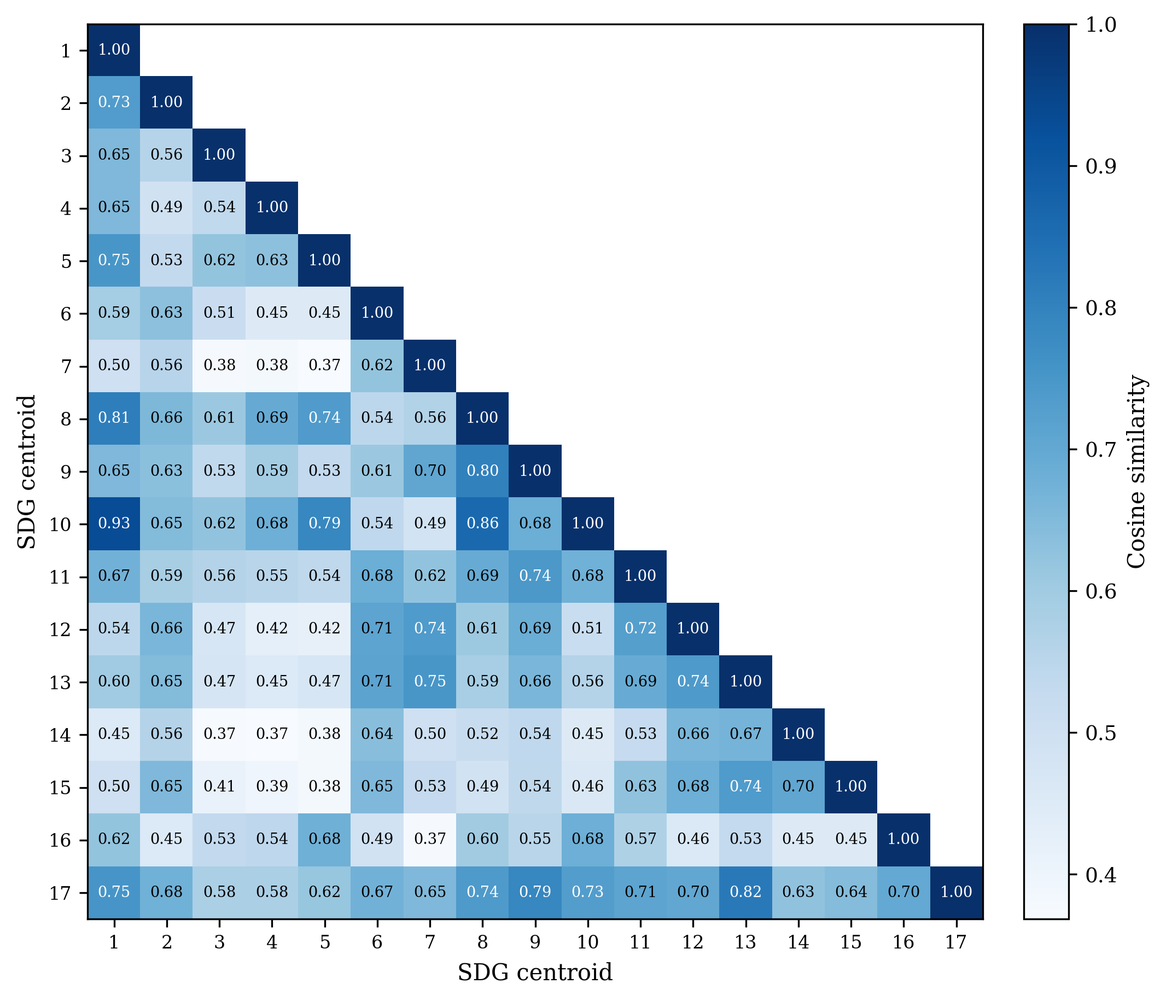
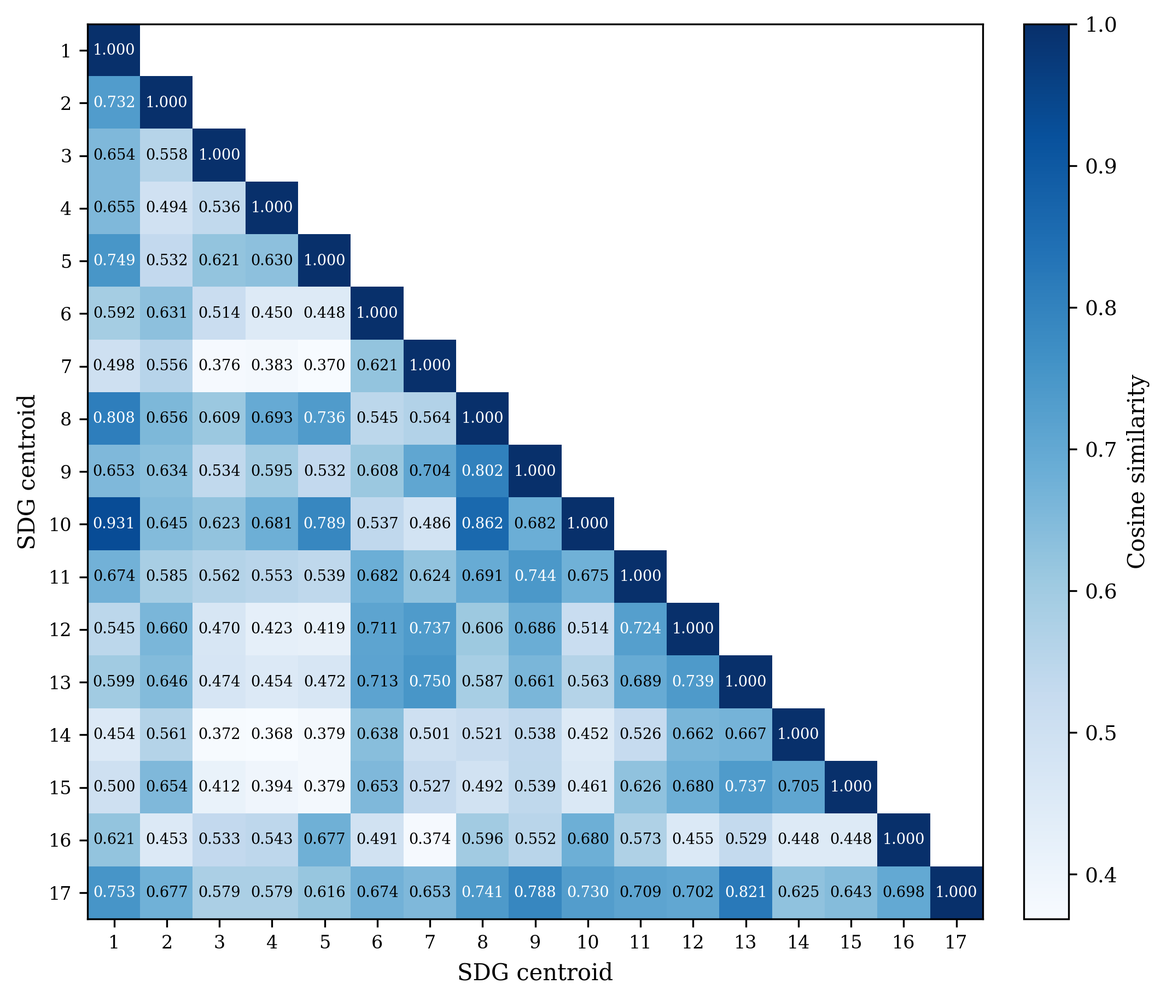
Unify decimal convention: coverage 1 dp; semantic gap, cosine, rho/r 3 dp
- Coverage percentages and agreement rates stay at 1 decimal place.
- Semantic gaps (cosine distance), cosine similarities, and Spearman rho /
  Pearson r now use 3 decimals throughout (were inconsistently 2 dp in several
  tables/figures).
- Centroid cosine-similarity heatmap (fig8) annotations regenerated at 3 dp.
- Updated generators: 0_coverage_gap, 2_coverage_semantic_interaction,
  3_generate_cross_sensitivity_table, a2_policy_source_family_sensitivity,
  plot_figures; and dissertation.tex prose.
- Regenerated affected num*/tab* outputs (encoder sensitivity, cross-sensitivity
  rho rows, policy-source family tables, interaction Fisher CIs, coverage-gap
  multi-segment %).

diff --git a/3_writing/dissertation.tex b/3_writing/dissertation.tex
@@ -321,7 +321,7 @@ The semantic gap for each SDG is then defined as:
 
 A gap of 0 indicates perfectly overlapping semantic directions; a gap approaching 1 indicates orthogonal framing. Cosine similarity between centroids is the standard method for document-level semantic comparison in embedding space \parencite{vorderbruck2019text, Babic2020}. Centroid cosine distance collapses each embedding cloud to its mean direction.
 
-Appendix~\ref{app:distributional-table} shows the adjusted-gap ranking correlates moderately with most full-distribution alternatives ($\rho = 0.44$--$0.69$), while Gaussian-2-Wasserstein, squared MMD, Sinkhorn, C2ST, and Grassmann show weak or negative agreement ($\rho \leq 0.26$), confirming the centroid estimate captures a dominant signal while distribution shape also carries signal. An alternative reading is that weak agreement from five independent distribution-aware measures reflects a real limitation of the mean-direction centroid rather than a merely complementary signal; the present study cannot distinguish between these readings and reports both distribution-aware and centroid results (Appendix~\ref{app:distributional-table}) so readers can judge for themselves. However, further analysis with those distance measures is left for future work.
+Appendix~\ref{app:distributional-table} shows the adjusted-gap ranking correlates moderately with most full-distribution alternatives ($\rho = 0.444$--$0.686$), while Gaussian-2-Wasserstein, squared MMD, Sinkhorn, C2ST, and Grassmann show weak or negative agreement ($\rho \leq 0.260$), confirming the centroid estimate captures a dominant signal while distribution shape also carries signal. An alternative reading is that weak agreement from five independent distribution-aware measures reflects a real limitation of the mean-direction centroid rather than a merely complementary signal; the present study cannot distinguish between these readings and reports both distribution-aware and centroid results (Appendix~\ref{app:distributional-table}) so readers can judge for themselves. However, further analysis with those distance measures is left for future work.
 
 The per-document segment cap of $K = 50$ (seeded, reproducible) bounds a single document's contribution to at most 50 segments, mitigating the influence of very long reports on the policy centroid; sensitivity at $K = 20$ and no cap is reported in Table~\ref{tab:cross-sensitivity-robustness}, Appendix~\ref{app:cross-method-section}.
 
@@ -759,7 +759,7 @@ The LR grid searched C $\in \{0.1, 1, 2, 3, 5, 10, 30, 100\}$ with an L2 penalty
 
 \noindent\textbf{Champion: LR (C=3.0, L2).} LR (C=3.0, L2, class\_weight=None) was chosen over the highest-scoring MLP despite a \LrMlpGap{} macro-$F_1$ gap: LR requires one free parameter (C) and no hidden layers, dropout, learning-rate tuning, or early stopping, and it provides 768 signed coefficients per SDG class, each directly attributable to a specific semantic dimension, whereas MLP's hidden layers diffuse this information across non-linear transformations. For this study's purpose  --  building an interpretable supervised reference to compare corpora, not a classifier built to label single documents  --  LR is chosen for transparency, not superior accuracy. The MLP test macro-$F_1$ (\MlpMacroFOne{}) cited in Section~\ref{sec:validation} is a single held-out evaluation of the champion MLP retrained on the full training pool (n=\NTrainPool{}), distinct from the CV mean of \MlpCvMacroFone{}~$\pm$~\MlpCvMacroFoneStd{} above. The full candidate ranking is reproduced in Table~\ref{tab:model-selection-appendix}.
 
-Held-out test performance (Table~\ref{tab:validation}) quantifies the cost of each simplification. The champion MLP reaches macro-F1 \MlpMacroFOne{} and micro-F1 \MlpMicroFOne{}, only ~1.0 and ~0.9 points above LR (0.816 / 0.831) with a near-identical per-SDG ordering (Spearman $\rho = 0.98$), so its extra capacity yields negligible accuracy and the interpretability-first choice of LR is justified. The zero-shot nearest-centroid baseline is weaker -- macro-F1 \ZsMacroFOne{} and micro-F1 \ZsMicroFOne{}, ~5.6 points below LR -- because it has no trained decision boundary, only the unweighted mean of reference embeddings, and the penalty is concentrated on the goals hardest to separate for all methods (SDG 10: 0.485 vs 0.610; SDG 17: 0.671). ZS still recovers the same broad ranking ($\rho = 0.93$ vs LR) and far exceeds the 1/17 random baseline, so it remains a usable unsupervised sanity check rather than a competitive classifier.
+Held-out test performance (Table~\ref{tab:validation}) quantifies the cost of each simplification. The champion MLP reaches macro-F1 \MlpMacroFOne{} and micro-F1 \MlpMicroFOne{}, only ~1.0 and ~0.9 points above LR (0.816 / 0.831) with a near-identical per-SDG ordering (Spearman $\rho = 0.980$), so its extra capacity yields negligible accuracy and the interpretability-first choice of LR is justified. The zero-shot nearest-centroid baseline is weaker -- macro-F1 \ZsMacroFOne{} and micro-F1 \ZsMicroFOne{}, ~5.6 points below LR -- because it has no trained decision boundary, only the unweighted mean of reference embeddings, and the penalty is concentrated on the goals hardest to separate for all methods (SDG 10: 0.485 vs 0.610; SDG 17: 0.671). ZS still recovers the same broad ranking ($\rho = 0.930$ vs LR) and far exceeds the 1/17 random baseline, so it remains a usable unsupervised sanity check rather than a competitive classifier.
 
 \begin{table}[ht]
 \centering
@@ -1008,7 +1008,7 @@ SciBERT is designated a lower-trust robustness encoder (its scientific pretraini
 compresses gap magnitudes, $\SciBERTMeanGap{}$ against $\MPNetMeanGap{}$,
 Section~\ref{sec:encoder-sensitivity}).
 
-\emph{Possible causes of the SciBERT divergence.} Possible causes range from small-$n$ estimation noise to SciBERT's compressed gap magnitudes and lower assignment fidelity; none is established, and the divergence does not threaten the conclusion, which rests on the supervised tracks where the H1a adjusted Pearson reaches $+0.69$ (Table~\ref{tab:raw-value-correlation}) and is stable across metrics. The raw-value specification therefore confirms, rather than threatens, the rank-based result.
+\emph{Possible causes of the SciBERT divergence.} Possible causes range from small-$n$ estimation noise to SciBERT's compressed gap magnitudes and lower assignment fidelity; none is established, and the divergence does not threaten the conclusion, which rests on the supervised tracks where the H1a adjusted Pearson reaches $+0.694$ (Table~\ref{tab:raw-value-correlation}) and is stable across metrics. The raw-value specification therefore confirms, rather than threatens, the rank-based result.
 
 \begin{table}[htbp]
 \centering
@@ -1039,7 +1039,7 @@ The implication is interpretive rather than corrective. The full policy corpus s
 \par\smallskip\footnotesize\emph{Notes:} For each policy source family, \texttt{pol.\% (n)} is the document-weighted policy share (\%) with the document count in parentheses; \texttt{sem. (n)} is the within-SDG research--policy semantic gap (naive, unadjusted) with the capped segment count in parentheses. Read across a row to see whether the gap is stable or driven by one family.\par
 \end{table}
 
-Re-running the interaction tests within each policy source family (Table~\ref{tab:policy-source-family-h25}; each family's reliable SDGs only, UNGDC: $n=15$) confirms the null is not an artefact of comparing an AI-specific research intersection with a broader policy union: the curated AI/SDG construction reproduces the full-corpus pattern (Section~\ref{sec:interaction}), while the SDGi and UNGDC families show positive research-share associations ($\rho = 0.60$, $p = 0.014$; $\rho = 0.42$, $p = 0.115$). The full-corpus row of Table~\ref{tab:policy-source-family-h25} reproduces the canonical interaction estimates (Section~\ref{sec:interaction}), confirming the replication is faithful.
+Re-running the interaction tests within each policy source family (Table~\ref{tab:policy-source-family-h25}; each family's reliable SDGs only, UNGDC: $n=15$) confirms the null is not an artefact of comparing an AI-specific research intersection with a broader policy union: the curated AI/SDG construction reproduces the full-corpus pattern (Section~\ref{sec:interaction}), while the SDGi and UNGDC families show positive research-share associations ($\rho = 0.600$, $p = 0.014$; $\rho = 0.420$, $p = 0.115$). The full-corpus row of Table~\ref{tab:policy-source-family-h25} reproduces the canonical interaction estimates (Section~\ref{sec:interaction}), confirming the replication is faithful.
 
 The Coverage gap adj.\ column of Table~\ref{tab:policy-source-family-h25} repeats the coverage-gap predictor against the register-adjusted semantic gap (Section~\ref{sec:register-adjustment-inlp}). The full-corpus row reproduces the main-text decomposition estimate ($\rho = \FullPolicyHPrimaryCovgapAdjSpearmanRho$, $p = \FullPolicyHPrimaryCovgapAdjSpearmanP$), confirming that the projection is applied consistently here. The positive adjusted association appears in the SDGi family ($\rho = \SdgiHPrimaryCovgapAdjSpearmanRho$, $p = \SdgiHPrimaryCovgapAdjSpearmanP$) and the full corpus ($\rho = \FullPolicyHPrimaryCovgapAdjSpearmanRho$, $p = \FullPolicyHPrimaryCovgapAdjSpearmanP$), but not under symmetric scope: the curated AI/SDG family is null ($\rho = \CuratedHPrimaryCovgapAdjSpearmanRho$, $p = \CuratedHPrimaryCovgapAdjSpearmanP$), as is UNGDC ($\rho = \UngdcHPrimaryCovgapAdjSpearmanRho$, $p = \UngdcHPrimaryCovgapAdjSpearmanP$). Two qualifications bound this result. First, the curated family's document-weighted profile spans only \PolicyCuratedDocs{} documents, so its policy share varies over a narrower range than the full corpus at the same $n = 17$, which attenuates rank correlations. Second, the adjusted gaps carry the register-removal caveat of Appendix~\ref{app:register-validation}: what INLP removes is broader than measurable register. The symmetric-scope column therefore bounds the reach of the positive adjusted association rather than overturning its full-corpus estimate.
 

diff --git a/1_code/7_main_analysis/1_main_text/3_generate_cross_sensitivity_table.py b/1_code/7_main_analysis/1_main_text/3_generate_cross_sensitivity_table.py
@@ -389,16 +389,16 @@ def write_encoder_axis_semantic():
     )
     scibert_key = "Encoder (embedding architecture)::SciBERT (768-d)::LR"
     scibert_rho = rho_a.get(scibert_key, float("nan"))
-    val = f"{scibert_rho:.2f}" if not np.isnan(scibert_rho) else "--"
+    val = f"{scibert_rho:.3f}" if not np.isnan(scibert_rho) else "--"
     mlp_key = "Encoder (embedding architecture)::MPNet (768-d)::MLP"
     mlp_rho = rho_a.get(mlp_key, float("nan"))
-    mlp_val = f"{mlp_rho:.2f}" if not np.isnan(mlp_rho) else "--"
+    mlp_val = f"{mlp_rho:.3f}" if not np.isnan(mlp_rho) else "--"
     zs_key = "Encoder (embedding architecture)::MPNet (768-d)::ZS"
     zs_rho = rho_a.get(zs_key, float("nan"))
-    zs_val = f"{zs_rho:.2f}" if not np.isnan(zs_rho) else "--"
+    zs_val = f"{zs_rho:.3f}" if not np.isnan(zs_rho) else "--"
     minilm_key = "Encoder (embedding architecture)::MiniLM (384-d)::LR"
     minilm_rho = rho_a.get(minilm_key, float("nan"))
-    minilm_val = f"{minilm_rho:.2f}" if not np.isnan(minilm_rho) else "--"
+    minilm_val = f"{minilm_rho:.3f}" if not np.isnan(minilm_rho) else "--"
     lines = [
         "% Auto-generated by 1_code/7_main_analysis/1_main_text/3_generate_cross_sensitivity_table.py — do not edit manually",
         rf"\newcommand{{\SciBERTSemanticRho}}{{{val}}}",
@@ -409,21 +409,21 @@ def write_encoder_axis_semantic():
     scibert_stats = load_mean_gap_and_cohesion("allenai/scibert_scivocab_uncased")
     if scibert_stats:
         sg, sc, src, spc = scibert_stats
-        lines.append(rf"\newcommand{{\SciBERTMeanGap}}{{{sg:.2f}}}")
-        lines.append(rf"\newcommand{{\SciBERTMeanCos}}{{{sc:.2f}}}")
+        lines.append(rf"\newcommand{{\SciBERTMeanGap}}{{{sg:.3f}}}")
+        lines.append(rf"\newcommand{{\SciBERTMeanCos}}{{{sc:.3f}}}")
         if src is not None:
-            lines.append(rf"\newcommand{{\SciBERTResCohesion}}{{{src:.2f}}}")
+            lines.append(rf"\newcommand{{\SciBERTResCohesion}}{{{src:.3f}}}")
         if spc is not None:
-            lines.append(rf"\newcommand{{\SciBERTPolCohesion}}{{{spc:.2f}}}")
+            lines.append(rf"\newcommand{{\SciBERTPolCohesion}}{{{spc:.3f}}}")
     mpnet_stats = load_mean_gap_and_cohesion("all-mpnet-base-v2")
     if mpnet_stats:
         mg, mc, mrc, mpc = mpnet_stats
-        lines.append(rf"\newcommand{{\MPNetMeanGap}}{{{mg:.2f}}}")
-        lines.append(rf"\newcommand{{\MPNetMeanCos}}{{{mc:.2f}}}")
+        lines.append(rf"\newcommand{{\MPNetMeanGap}}{{{mg:.3f}}}")
+        lines.append(rf"\newcommand{{\MPNetMeanCos}}{{{mc:.3f}}}")
         if mrc is not None:
-            lines.append(rf"\newcommand{{\MPNetResCohesion}}{{{mrc:.2f}}}")
+            lines.append(rf"\newcommand{{\MPNetResCohesion}}{{{mrc:.3f}}}")
         if mpc is not None:
-            lines.append(rf"\newcommand{{\MPNetPolCohesion}}{{{mpc:.2f}}}")
+            lines.append(rf"\newcommand{{\MPNetPolCohesion}}{{{mpc:.3f}}}")
     (OUT_MAIN / "num7_encoder_sensitivity.tex").write_text(
         "\n".join(lines) + "\n", encoding="utf-8")
     print(f"Written num7_encoder_sensitivity.tex  scibert_lr_rho={val} mlp_rho={mlp_val} zs_rho={zs_val} minilm_rho={minilm_val}")
@@ -457,10 +457,10 @@ def write_encoder_axis_coverage():
     )
     scibert_key = "Encoder (embedding architecture)::SciBERT (768-d)::LR"
     scibert_rho = rho_by_col.get(scibert_key, float("nan"))
-    val = f"{scibert_rho:.2f}" if not np.isnan(scibert_rho) else "--"
+    val = f"{scibert_rho:.3f}" if not np.isnan(scibert_rho) else "--"
     minilm_key = "Encoder (embedding architecture)::MiniLM (384-d)::LR"
     minilm_rho = rho_by_col.get(minilm_key, float("nan"))
-    minilm_val = f"{minilm_rho:.2f}" if not np.isnan(minilm_rho) else "--"
+    minilm_val = f"{minilm_rho:.3f}" if not np.isnan(minilm_rho) else "--"
     (OUT_MAIN / "num9_encoder_sensitivity_coverage.tex").write_text(
         "\n".join([
             "% Auto-generated by 1_code/7_main_analysis/1_main_text/3_generate_cross_sensitivity_table.py — do not edit manually",
@@ -927,7 +927,7 @@ def write_cross_sensitivity():
     )
 
     concept_rho_val = rho_b.get("Retrieval::LR", float("nan"))
-    concept_sem_rho = f"{concept_rho_val:.2f}" if not np.isnan(concept_rho_val) else "--"
+    concept_sem_rho = f"{concept_rho_val:.3f}" if not np.isnan(concept_rho_val) else "--"
     (OUT_MAIN / "num11_concept_semantic.tex").write_text(
         "\n".join([
             "% Auto-generated by 1_code/7_main_analysis/1_main_text/3_generate_cross_sensitivity_table.py — do not edit manually",
@@ -1094,7 +1094,7 @@ def build_tabular(col_groups):
             else:
                 rho = float("nan")
             rho_by_col[key] = rho
-            rho_cells.append(f"{rho:.2f}" if not np.isnan(rho) else "--")
+            rho_cells.append(f"{rho:.3f}" if not np.isnan(rho) else "--")
     else:
         for _ in all_cols:
             rho_cells.append("--")
@@ -1225,7 +1225,7 @@ def write_coverage_table():
                                 COVERAGE_CAPTION, COVERAGE_NOTES, "tab:cross-sensitivity-coverage")
 
     concept_rho_val = rho_by_col.get("Retrieval::LR", float("nan"))
-    concept_rho = f"{concept_rho_val:.2f}" if not np.isnan(concept_rho_val) else "--"
+    concept_rho = f"{concept_rho_val:.3f}" if not np.isnan(concept_rho_val) else "--"
     lines = [
         f"% Auto-generated by 1_code/7_main_analysis/1_main_text/3_generate_cross_sensitivity_table.py — do not edit manually",
         rf"\newcommand{{\ConceptCoverageGapRho}}{{{concept_rho}}}",

diff --git a/4_outputs/appendix/mpnet/a2_source_family_sensitivity/tables/tab_a2_policy_source_family_combined.tex b/4_outputs/appendix/mpnet/a2_source_family_sensitivity/tables/tab_a2_policy_source_family_combined.tex
@@ -5,24 +5,24 @@ SDG & \multicolumn{2}{c}{Full Corpus} & \multicolumn{2}{c}{Curated AI/SDG} & \mu
 \cmidrule(lr){2-3} \cmidrule(lr){4-5} \cmidrule(lr){6-7} \cmidrule(lr){8-9}
 & pol.\% (n) & sem.\,(n) & pol.\% (n) & sem.\,(n) & pol.\% (n) & sem.\,(n) & pol.\% (n) & sem.\,(n) \\
 \midrule
-1 & 4.5 (288) & 0.42 (1,689) & 1.1 (1) & 0.44 (357) & 5.9 (250) & 0.42 (1,191) & 1.8 (37) & 0.56 (141) \\
-2 & 4.3 (274) & 0.30 (1,508) & 0.0 (0) & 0.35 (240) & 5.8 (246) & 0.29 (1,196) & 1.4 (28) & 0.45 (72) \\
-3 & 4.7 (298) & 0.49 (2,408) & 6.4 (6) & 0.36 (643) & 6.7 (284) & 0.55 (1,707) & 0.4 (8) & 0.70 (58) \\
-4 & 4.8 (305) & 0.27 (2,055) & 0.0 (0) & 0.21 (274) & 7.0 (296) & 0.29 (1,718) & 0.4 (9) & 0.40 (63) \\
-5 & 5.1 (324) & 0.28 (2,005) & 0.0 (0) & 0.28 (272) & 6.6 (278) & 0.28 (1,531) & 2.2 (46) & 0.41 (202) \\
-6 & 3.7 (238) & 0.29 (1,206) & 0.0 (0) & 0.35 (137) & 5.3 (226) & 0.29 (1,038) & 0.6 (12) & 0.42 (31) \\
-7 & 4.3 (273) & 0.43 (1,578) & 1.1 (1) & 0.51 (358) & 6.0 (253) & 0.41 (1,147) & 0.9 (19) & 0.59 (73) \\
-8 & 4.3 (276) & 0.39 (1,886) & 0.0 (0) & 0.40 (309) & 6.5 (275) & 0.40 (1,558) & 0.0 (1) & 0.54 (19) \\
-9 & 4.3 (274) & 0.31 (2,986) & 50.0 (47) & 0.27 (1,838) & 5.1 (215) & 0.54 (1,116) & 0.6 (12) & 0.46 (32) \\
-10 & 2.9 (182) & 0.27 (1,085) & 0.0 (0) & 0.33 (258) & 4.2 (176) & 0.28 (774) & 0.3 (6) & 0.40 (53) \\
-11 & 5.3 (338) & 0.45 (1,658) & 0.0 (0) & 0.43 (175) & 8.0 (336) & 0.46 (1,474) & 0.1 (2) & 0.57 (9) \\
-12 & 3.5 (226) & 0.30 (1,132) & 0.0 (0) & 0.38 (178) & 5.3 (225) & 0.30 (947) & 0.0 (1) & 0.49 (7) \\
-13 & 11.3 (718) & 0.48 (3,084) & 7.4 (7) & 0.44 (613) & 6.0 (252) & 0.44 (1,268) & 22.4 (459) & 0.58 (1,203) \\
-14 & 3.8 (241) & 0.36 (1,293) & 0.0 (0) & 0.37 (216) & 4.5 (189) & 0.35 (856) & 2.5 (52) & 0.49 (221) \\
-15 & 4.2 (266) & 0.24 (1,484) & 0.0 (0) & 0.29 (299) & 5.7 (239) & 0.24 (1,108) & 1.3 (27) & 0.41 (77) \\
-16 & 17.3 (1,100) & 0.33 (4,890) & 12.8 (12) & 0.20 (1,092) & 5.9 (250) & 0.38 (1,395) & 40.9 (838) & 0.51 (2,403) \\
-17 & 11.7 (746) & 0.18 (3,645) & 21.3 (20) & 0.18 (859) & 5.6 (235) & 0.16 (1,322) & 24.0 (491) & 0.26 (1,464) \\
+1 & 4.5 (288) & 0.415 (1,689) & 1.1 (1) & 0.443 (357) & 5.9 (250) & 0.415 (1,191) & 1.8 (37) & 0.556 (141) \\
+2 & 4.3 (274) & 0.299 (1,508) & 0.0 (0) & 0.345 (240) & 5.8 (246) & 0.294 (1,196) & 1.4 (28) & 0.454 (72) \\
+3 & 4.7 (298) & 0.495 (2,408) & 6.4 (6) & 0.362 (643) & 6.7 (284) & 0.554 (1,707) & 0.4 (8) & 0.695 (58) \\
+4 & 4.8 (305) & 0.267 (2,055) & 0.0 (0) & 0.205 (274) & 7.0 (296) & 0.287 (1,718) & 0.4 (9) & 0.395 (63) \\
+5 & 5.1 (324) & 0.278 (2,005) & 0.0 (0) & 0.276 (272) & 6.6 (278) & 0.282 (1,531) & 2.2 (46) & 0.411 (202) \\
+6 & 3.7 (238) & 0.292 (1,206) & 0.0 (0) & 0.346 (137) & 5.3 (226) & 0.292 (1,038) & 0.6 (12) & 0.422 (31) \\
+7 & 4.3 (273) & 0.427 (1,578) & 1.1 (1) & 0.511 (358) & 6.0 (253) & 0.409 (1,147) & 0.9 (19) & 0.591 (73) \\
+8 & 4.3 (276) & 0.387 (1,886) & 0.0 (0) & 0.395 (309) & 6.5 (275) & 0.397 (1,558) & 0.0 (1) & 0.536 (19) \\
+9 & 4.3 (274) & 0.315 (2,986) & 50.0 (47) & 0.272 (1,838) & 5.1 (215) & 0.545 (1,116) & 0.6 (12) & 0.459 (32) \\
+10 & 2.9 (182) & 0.272 (1,085) & 0.0 (0) & 0.331 (258) & 4.2 (176) & 0.278 (774) & 0.3 (6) & 0.402 (53) \\
+11 & 5.3 (338) & 0.449 (1,658) & 0.0 (0) & 0.428 (175) & 8.0 (336) & 0.456 (1,474) & 0.1 (2) & 0.573 (9) \\
+12 & 3.5 (226) & 0.296 (1,132) & 0.0 (0) & 0.384 (178) & 5.3 (225) & 0.297 (947) & 0.0 (1) & 0.488 (7) \\
+13 & 11.3 (718) & 0.480 (3,084) & 7.4 (7) & 0.437 (613) & 6.0 (252) & 0.444 (1,268) & 22.4 (459) & 0.576 (1,203) \\
+14 & 3.8 (241) & 0.360 (1,293) & 0.0 (0) & 0.372 (216) & 4.5 (189) & 0.354 (856) & 2.5 (52) & 0.487 (221) \\
+15 & 4.2 (266) & 0.238 (1,484) & 0.0 (0) & 0.289 (299) & 5.7 (239) & 0.237 (1,108) & 1.3 (27) & 0.409 (77) \\
+16 & 17.3 (1,100) & 0.329 (4,890) & 12.8 (12) & 0.195 (1,092) & 5.9 (250) & 0.377 (1,395) & 40.9 (838) & 0.506 (2,403) \\
+17 & 11.7 (746) & 0.177 (3,645) & 21.3 (20) & 0.181 (859) & 5.6 (235) & 0.165 (1,322) & 24.0 (491) & 0.260 (1,464) \\
 \midrule
-$\rho$ & 1.00 & 1.00 & 0.36 & 0.73 & 0.61 & 0.91 & 0.45 & 0.97 \\
+$\rho$ & 1.000 & 1.000 & 0.355 & 0.733 & 0.613 & 0.914 & 0.453 & 0.966 \\
 \bottomrule
 \end{tabular}

diff --git a/4_outputs/appendix/mpnet/a2_source_family_sensitivity/tables/num_a2_policy_source_family_h25.tex b/4_outputs/appendix/mpnet/a2_source_family_sensitivity/tables/num_a2_policy_source_family_h25.tex
@@ -1,38 +1,38 @@
 % Auto-generated by 1_code/7_main_analysis/2_appendix/a2_policy_source_family_sensitivity.py — do not edit manually
 % p-values: two-sided Monte Carlo permutation (100,000 resamples, seed 42)
 \newcommand{\FullPolicyHPrimaryN}{17}
-\newcommand{\FullPolicyHPrimaryResearchSpearmanRho}{0.45}
+\newcommand{\FullPolicyHPrimaryResearchSpearmanRho}{0.449}
 \newcommand{\FullPolicyHPrimaryResearchSpearmanP}{0.071}
-\newcommand{\FullPolicyHPrimaryCovgapSpearmanRho}{-0.01}
+\newcommand{\FullPolicyHPrimaryCovgapSpearmanRho}{-0.012}
 \newcommand{\FullPolicyHPrimaryCovgapSpearmanP}{0.959}
-\newcommand{\FullPolicyHPrimaryCovgapAdjSpearmanRho}{0.54}
+\newcommand{\FullPolicyHPrimaryCovgapAdjSpearmanRho}{0.544}
 \newcommand{\FullPolicyHPrimaryCovgapAdjSpearmanP}{0.025}
-\newcommand{\FullPolicyHPrimaryResearchSpearmanRhoNoSdgFour}{0.61}
+\newcommand{\FullPolicyHPrimaryResearchSpearmanRhoNoSdgFour}{0.606}
 \newcommand{\FullPolicyHPrimaryResearchSpearmanPNoSdgFour}{0.015}
 \newcommand{\CuratedHPrimaryN}{17}
-\newcommand{\CuratedHPrimaryResearchSpearmanRho}{-0.06}
+\newcommand{\CuratedHPrimaryResearchSpearmanRho}{-0.056}
 \newcommand{\CuratedHPrimaryResearchSpearmanP}{0.833}
-\newcommand{\CuratedHPrimaryCovgapSpearmanRho}{-0.22}
+\newcommand{\CuratedHPrimaryCovgapSpearmanRho}{-0.223}
 \newcommand{\CuratedHPrimaryCovgapSpearmanP}{0.386}
-\newcommand{\CuratedHPrimaryCovgapAdjSpearmanRho}{-0.06}
+\newcommand{\CuratedHPrimaryCovgapAdjSpearmanRho}{-0.061}
 \newcommand{\CuratedHPrimaryCovgapAdjSpearmanP}{0.807}
-\newcommand{\CuratedHPrimaryResearchSpearmanRhoNoSdgFour}{0.05}
+\newcommand{\CuratedHPrimaryResearchSpearmanRhoNoSdgFour}{0.053}
 \newcommand{\CuratedHPrimaryResearchSpearmanPNoSdgFour}{0.848}
 \newcommand{\SdgiHPrimaryN}{17}
-\newcommand{\SdgiHPrimaryResearchSpearmanRho}{0.60}
+\newcommand{\SdgiHPrimaryResearchSpearmanRho}{0.596}
 \newcommand{\SdgiHPrimaryResearchSpearmanP}{0.014}
-\newcommand{\SdgiHPrimaryCovgapSpearmanRho}{0.04}
+\newcommand{\SdgiHPrimaryCovgapSpearmanRho}{0.042}
 \newcommand{\SdgiHPrimaryCovgapSpearmanP}{0.873}
-\newcommand{\SdgiHPrimaryCovgapAdjSpearmanRho}{0.50}
+\newcommand{\SdgiHPrimaryCovgapAdjSpearmanRho}{0.498}
 \newcommand{\SdgiHPrimaryCovgapAdjSpearmanP}{0.044}
-\newcommand{\SdgiHPrimaryResearchSpearmanRhoNoSdgFour}{0.70}
+\newcommand{\SdgiHPrimaryResearchSpearmanRhoNoSdgFour}{0.703}
 \newcommand{\SdgiHPrimaryResearchSpearmanPNoSdgFour}{0.003}
 \newcommand{\UngdcHPrimaryN}{15}
-\newcommand{\UngdcHPrimaryResearchSpearmanRho}{0.42}
+\newcommand{\UngdcHPrimaryResearchSpearmanRho}{0.425}
 \newcommand{\UngdcHPrimaryResearchSpearmanP}{0.115}
-\newcommand{\UngdcHPrimaryCovgapSpearmanRho}{0.35}
+\newcommand{\UngdcHPrimaryCovgapSpearmanRho}{0.354}
 \newcommand{\UngdcHPrimaryCovgapSpearmanP}{0.195}
-\newcommand{\UngdcHPrimaryCovgapAdjSpearmanRho}{0.36}
+\newcommand{\UngdcHPrimaryCovgapAdjSpearmanRho}{0.357}
 \newcommand{\UngdcHPrimaryCovgapAdjSpearmanP}{0.191}
-\newcommand{\UngdcHPrimaryResearchSpearmanRhoNoSdgFour}{0.61}
+\newcommand{\UngdcHPrimaryResearchSpearmanRhoNoSdgFour}{0.609}
 \newcommand{\UngdcHPrimaryResearchSpearmanPNoSdgFour}{0.024}

diff --git a/1_code/7_main_analysis/2_appendix/a2_policy_source_family_sensitivity.py b/1_code/7_main_analysis/2_appendix/a2_policy_source_family_sensitivity.py
@@ -258,7 +258,7 @@ def _fisher_ci(r: float, n: int) -> tuple[float, float]:
 
 
 def _fmt2(v: float) -> str:
-    s = f"{abs(v):.2f}"
+    s = f"{abs(v):.3f}"
     return f"-{s}" if v < 0 else s
 
 
@@ -385,7 +385,7 @@ def write_table_combined(path: Path, semantic_rows: list[dict], coverage_rows: l
             cr = cov_lookup.get((family, sdg))
             share = f"{float(cr['document_weighted_share']) * 100:.1f}" if cr is not None else "--"
             raw_n = f"{int(cr['document_count_assigned']):,}" if cr is not None else "--"
-            gap = f"{float(sr['semantic_gap']):.2f}" if sr is not None and sr["semantic_gap"] is not None else "--"
+            gap = f"{float(sr['semantic_gap']):.3f}" if sr is not None and sr["semantic_gap"] is not None else "--"
             capped_n = f"{int(sr['n_policy_segments_capped']):,}" if sr is not None else "--"
             cells.append(f"{share} ({raw_n})")
             cells.append(f"{gap} ({capped_n})")
@@ -398,12 +398,12 @@ def write_table_combined(path: Path, semantic_rows: list[dict], coverage_rows: l
     rho_cells = [r"$\rho$"]
     for fam in families_order:
         if fam == "full_policy_corpus":
-            rho_cells.extend(["1.00", "1.00"])
+            rho_cells.extend(["1.000", "1.000"])
         else:
             fv_share = [float(cov_lookup[(fam, s)]['document_weighted_share']) for s in range(1, N_SDG + 1)]
             fv_gap = [float(sem_lookup[(fam, s)]['semantic_gap']) for s in range(1, N_SDG + 1)]
-            rho_cells.append(f"{_spearman(full_share, fv_share):.2f}")
-            rho_cells.append(f"{_spearman(full_gap, fv_gap):.2f}")
+            rho_cells.append(f"{_spearman(full_share, fv_share):.3f}")
+            rho_cells.append(f"{_spearman(full_gap, fv_gap):.3f}")
 
     lines.append(r"\midrule")
     lines.append(" & ".join(rho_cells) + r" \\")

diff --git a/4_outputs/mpnet/tables/num4_interaction_h25.tex b/4_outputs/mpnet/tables/num4_interaction_h25.tex
@@ -1,14 +1,14 @@
 % Auto-generated by 1_code/7_main_analysis/1_main_text/2_coverage_semantic_interaction.py — do not edit manually
 % p-values: two-sided Monte Carlo permutation (100,000 resamples, seed 42)
 \newcommand{\HPrimaryN}{17}
-\newcommand{\HPrimaryCiLower}{-0.22}
-\newcommand{\HPrimaryCiUpper}{0.68}
-\newcommand{\HPrimaryPolicyCiLower}{-0.49}
-\newcommand{\HPrimaryPolicyCiUpper}{0.47}
-\newcommand{\HPrimaryCovgapCiLower}{-0.40}
-\newcommand{\HPrimaryCovgapCiUpper}{0.56}
-\newcommand{\HPrimaryDominanceCiLower}{-0.24}
-\newcommand{\HPrimaryDominanceCiUpper}{0.67}
+\newcommand{\HPrimaryCiLower}{-0.224}
+\newcommand{\HPrimaryCiUpper}{0.675}
+\newcommand{\HPrimaryPolicyCiLower}{-0.495}
+\newcommand{\HPrimaryPolicyCiUpper}{0.466}
+\newcommand{\HPrimaryCovgapCiLower}{-0.398}
+\newcommand{\HPrimaryCovgapCiUpper}{0.555}
+\newcommand{\HPrimaryDominanceCiLower}{-0.238}
+\newcommand{\HPrimaryDominanceCiUpper}{0.667}
 \newcommand{\HPrimaryPearsonR}{0.288}
 \newcommand{\HPrimaryPearsonP}{0.269}
 \newcommand{\HPrimarySpearmanRho}{0.449}
@@ -57,7 +57,7 @@
 \newcommand{\HExclFourDominanceAdjPearsonP}{0.353}
 \newcommand{\HExclFourDominanceAdjSpearmanRho}{-0.074}
 \newcommand{\HExclFourDominanceAdjSpearmanP}{0.780}
-\newcommand{\MedianResearchPct}{2.24}
+\newcommand{\MedianResearchPct}{2.2}
 \newcommand{\ConceptLRCovgapAdjRho}{+0.434$^{\dagger}$}
 \newcommand{\HOneACovgapAdjPositiveCount}{8}
 \newcommand{\HOneACovgapAdjPositiveCountTotal}{9}

diff --git a/4_outputs/mpnet/tables/num7_encoder_sensitivity.tex b/4_outputs/mpnet/tables/num7_encoder_sensitivity.tex
@@ -1,13 +1,13 @@
 % Auto-generated by 1_code/7_main_analysis/1_main_text/3_generate_cross_sensitivity_table.py — do not edit manually
-\newcommand{\SciBERTSemanticRho}{0.54}
-\newcommand{\MlpSemanticRho}{0.85}
-\newcommand{\ZeroShotSemanticRho}{0.60}
-\newcommand{\MiniLMSemanticRho}{0.63}
-\newcommand{\SciBERTMeanGap}{0.04}
-\newcommand{\SciBERTMeanCos}{0.96}
-\newcommand{\SciBERTResCohesion}{0.91}
-\newcommand{\SciBERTPolCohesion}{0.92}
-\newcommand{\MPNetMeanGap}{0.34}
-\newcommand{\MPNetMeanCos}{0.66}
-\newcommand{\MPNetResCohesion}{0.43}
-\newcommand{\MPNetPolCohesion}{0.68}
+\newcommand{\SciBERTSemanticRho}{0.537}
+\newcommand{\MlpSemanticRho}{0.850}
+\newcommand{\ZeroShotSemanticRho}{0.596}
+\newcommand{\MiniLMSemanticRho}{0.632}
+\newcommand{\SciBERTMeanGap}{0.043}
+\newcommand{\SciBERTMeanCos}{0.957}
+\newcommand{\SciBERTResCohesion}{0.909}
+\newcommand{\SciBERTPolCohesion}{0.925}
+\newcommand{\MPNetMeanGap}{0.340}
+\newcommand{\MPNetMeanCos}{0.660}
+\newcommand{\MPNetResCohesion}{0.433}
+\newcommand{\MPNetPolCohesion}{0.676}

diff --git a/4_outputs/appendix/mpnet/a2_source_family_sensitivity/tables/tab_a2_policy_source_family_h25.tex b/4_outputs/appendix/mpnet/a2_source_family_sensitivity/tables/tab_a2_policy_source_family_h25.tex
@@ -3,9 +3,9 @@
 \toprule
 Family & $n$ & Research share $(\rho,\,p)$ & Coverage gap $(\rho,\,p)$ & Coverage gap adj.\ $(\rho,\,p)$ & Research share excl.\ SDG 4 $(\rho,\,p)$ \\
 \midrule
-Full corpus & 17 & 0.45 (0.071) & -0.01 (0.959) & 0.54 (0.025) & 0.61 (0.015) \\
-Curated AI/SDG & 17 & -0.06 (0.833) & -0.22 (0.386) & -0.06 (0.807) & 0.05 (0.848) \\
-SDGi VNR/VLR & 17 & 0.60 (0.014) & 0.04 (0.873) & 0.50 (0.044) & 0.70 (0.003) \\
-UNGDC speeches & 15 & 0.42 (0.115) & 0.35 (0.195) & 0.36 (0.191) & 0.61 (0.024) \\
+Full corpus & 17 & 0.449 (0.071) & -0.012 (0.959) & 0.544 (0.025) & 0.606 (0.015) \\
+Curated AI/SDG & 17 & -0.056 (0.833) & -0.223 (0.386) & -0.061 (0.807) & 0.053 (0.848) \\
+SDGi VNR/VLR & 17 & 0.596 (0.014) & 0.042 (0.873) & 0.498 (0.044) & 0.703 (0.003) \\
+UNGDC speeches & 15 & 0.425 (0.115) & 0.354 (0.195) & 0.357 (0.191) & 0.609 (0.024) \\
 \bottomrule
 \end{tabular}

diff --git a/1_code/7_main_analysis/1_main_text/2_coverage_semantic_interaction.py b/1_code/7_main_analysis/1_main_text/2_coverage_semantic_interaction.py
@@ -712,7 +712,7 @@ def run(args: argparse.Namespace) -> None:
 
     def _fmt2(v):
         """Format float for LaTeX with 2 d.p."""
-        s = f"{abs(v):.2f}"
+        s = f"{abs(v):.3f}"
         return f"-{s}" if v < 0 else s
 
     # ---- 95% CIs (Fisher z) for all four primary predictors, plus minimal detectable effect ----
@@ -779,7 +779,7 @@ def run(args: argparse.Namespace) -> None:
     num_lines += _macro("HExclFourCovgapAdj", tests_excl4_adj, "covgap")
     num_lines += _macro("HExclFourDominanceAdj", tests_excl4_adj, "dominance")
     num_lines += [
-        rf"\newcommand{{\MedianResearchPct}}{{{median_res_pct:.2f}}}",
+        rf"\newcommand{{\MedianResearchPct}}{{{median_res_pct:.1f}}}",
     ]
 
     # ---- H1 x config register-correlation grid (replaces the stale exclude-SDG rows) ----

diff --git a/1_code/7_main_analysis/1_main_text/0_coverage_gap.py b/1_code/7_main_analysis/1_main_text/0_coverage_gap.py
@@ -446,7 +446,7 @@ def run(args: argparse.Namespace) -> None:
         rf"\newcommand{{\NResearchSegments}}{{{latex_int(n_segments)}}}",
         rf"\newcommand{{\NResearchAbstracts}}{{{latex_int(n_abstracts)}}}",
         rf"\newcommand{{\NResearchSegPerAbstract}}{{{seg_per_abstract:.3f}}}",
-        rf"\newcommand{{\NResearchMultiSegPct}}{{{100.0 * n_multi / max(n_abstracts, 1):.2f}}}",
+        rf"\newcommand{{\NResearchMultiSegPct}}{{{100.0 * n_multi / max(n_abstracts, 1):.1f}}}",
         rf"\newcommand{{\NResearchPreprocessed}}{{{latex_int(n_abstracts)}}}",
         rf"\newcommand{{\ResearchPolicyUnitRatio}}{{{n_abstracts / max(len(doc_meta), 1):.0f}}}",
         rf"\newcommand{{\ResearchPolicySegmentRatio}}{{{n_segments / max(n_policy, 1):.1f}}}",

diff --git a/1_code/8_visualization/plot_figures.py b/1_code/8_visualization/plot_figures.py
@@ -111,7 +111,7 @@ def plot_centroid_similarity_heatmap(layout, model: str) -> None:
             if mask[i, j]:
                 continue
             v = M[i, j]
-            ax.text(j, i, f"{v:.2f}", ha="center", va="center",
+            ax.text(j, i, f"{v:.3f}", ha="center", va="center",
                     fontsize=6.5, color="white" if v > 0.72 else "black")
     cbar = fig.colorbar(im, ax=ax, fraction=0.046, pad=0.04)
     cbar.set_label("Cosine similarity")

diff --git a/4_outputs/mpnet/tables/tab7b_encoder_sensitivity.tex b/4_outputs/mpnet/tables/tab7b_encoder_sensitivity.tex
@@ -33,7 +33,7 @@
 16 & \textit{8} & \textit{10} & \textit{13} & \textit{12} & \textit{11} & \textit{12} & \textit{16} \\
 17 & \textbf{17} & \textbf{16} & \textbf{8} & \textbf{16} & \textbf{9} & \textbf{17} & \textbf{17} \\
 \midrule
-Rank Corr ($\rho$) & 1.00 & 0.86 & 0.53 & 0.40 & 0.37 & 0.46 & 0.62 \\
+Rank Corr ($\rho$) & 1.000 & 0.863 & 0.534 & 0.400 & 0.373 & 0.463 & 0.618 \\
 \bottomrule
 \end{tabular}
 }
